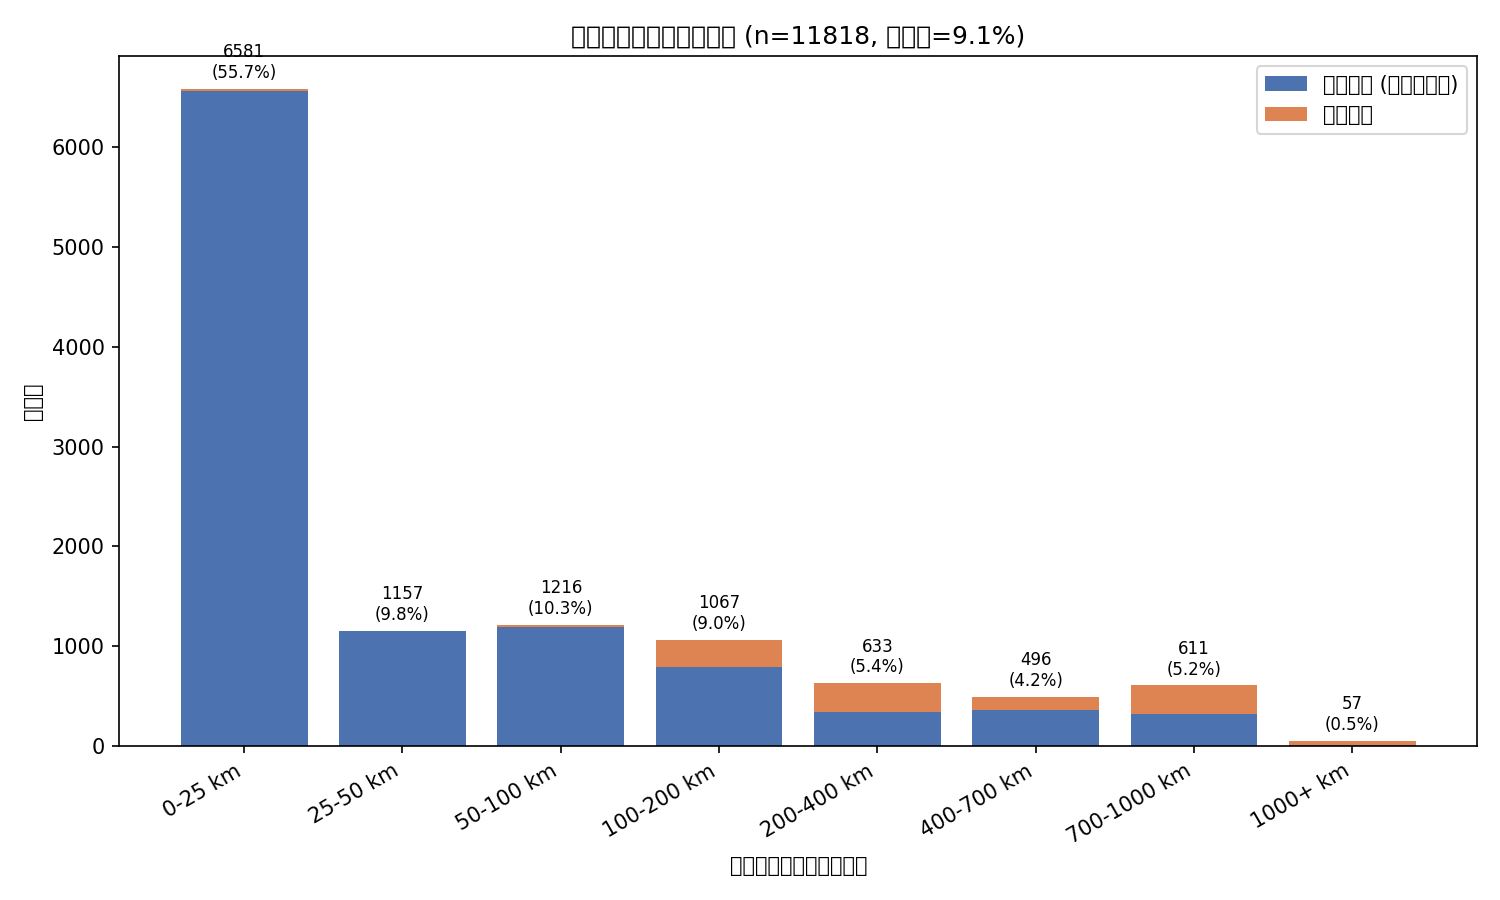
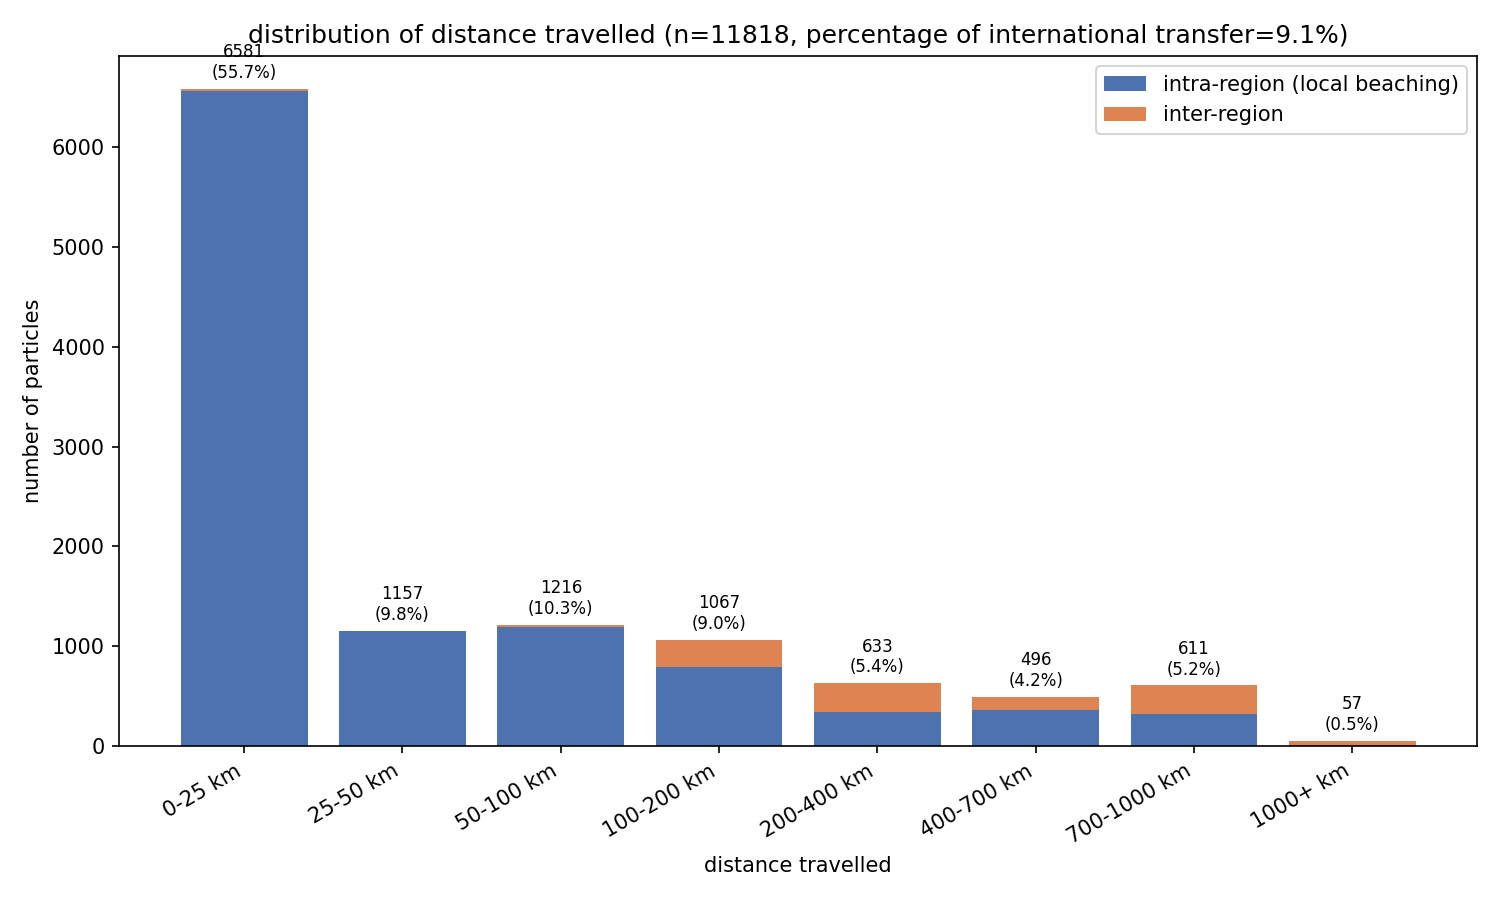
updated histogram:

Changed region(s): [[0.1533, 0.0311, 0.9813, 0.1556], [0.46, 0.9333, 0.5827, 0.9956], [0.0, 0.3422, 0.0307, 0.56]]

diff --git a/data/plot_distance_histogram.py b/data/plot_distance_histogram.py
@@ -56,8 +56,8 @@ total = same_counts + cross_counts
 
 fig, ax = plt.subplots(figsize=(10, 6))
 x = np.arange(len(labels))
-ax.bar(x, same_counts, label="同地域内 (局所再漂着)", color="#4c72b0")
-ax.bar(x, cross_counts, bottom=same_counts, label="越境輸送", color="#dd8452")
+ax.bar(x, same_counts, label="intra-region (local beaching)", color="#4c72b0")
+ax.bar(x, cross_counts, bottom=same_counts, label="inter-region", color="#dd8452")
 
 for i, t in enumerate(total):
     if t > 0:
@@ -66,10 +66,10 @@ for i, t in enumerate(total):
 
 ax.set_xticks(x)
 ax.set_xticklabels([f"{l} km" for l in labels], rotation=30, ha="right")
-ax.set_ylabel("粒子数")
-ax.set_xlabel("放出地点からの移動距離")
-ax.set_title(f"漂着までの移動距離分布 (n={valid.sum()}, "
-            f"越境率={cross.sum()/valid.sum()*100:.1f}%)")
+ax.set_ylabel("number of particles")
+ax.set_xlabel("distance travelled")
+ax.set_title(f"distribution of distance travelled (n={valid.sum()}, "
+            f"percentage of international transfer={cross.sum()/valid.sum()*100:.1f}%)")
 ax.legend()
 plt.tight_layout()
 plt.savefig(args.out, dpi=150)
